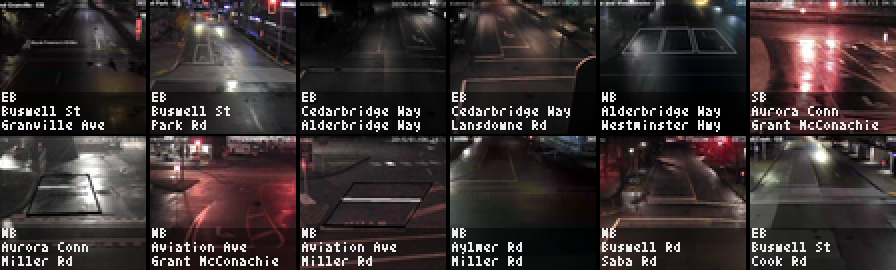
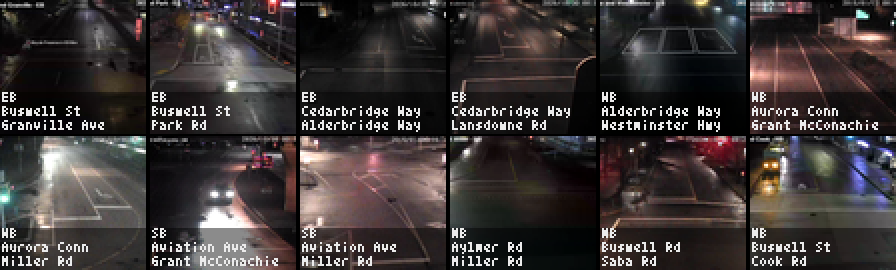
Camera grid review fixes: every view shows before its tile is replaced; more names group
- A place with more views than fit in a tile's life (cells x interval) at view_ms shows each for a share of it,
  so every camera still appears (all 474 up in the live grid are drawn).
- The play ends once every tile on the last screen has looped through its views, not only the last one.
- Places: 'St.and' joins streets; one-street names group on the part before their view ('Cambie Bridge - North'
  and '- South'); Block/blk and Commons/Cmns match.
- Panel: its intersection count follows the same matching; the Next view hint says it speeds up.

Changed region(s): [[0.0, 0.5037, 0.5, 1.0], [0.8125, 0.0, 1.0, 0.8593]]

diff --git a/hub/web/ui/pages/webcams.js b/hub/web/ui/pages/webcams.js
@@ -648,12 +648,15 @@ const GridTab = {
     const playing = computed(() => [...g.cams, ...(g.near?.on && matches.value ? matches.value.cams.filter((c) => !inList(c)) : [])]
       .slice(0, matches.value?.max || 1000));
     const total = computed(() => playing.value.length);
-    // squares: an intersection's views share one when grouped (roughly display/modules/cam_names.py place_key)
+    // squares: an intersection's views share one when grouped (display/modules/cam_names.py place_key, for the count)
+    const SAME = { avenue: "ave", av: "ave", road: "rd", street: "st", boulevard: "blvd", highway: "hwy", drive: "dr", place: "pl",
+      crescent: "cres", parkway: "pkwy", court: "ct", lane: "ln", gate: "gt", block: "blk", connector: "conn", commons: "cmns" };
+    const same = (s) => s.toLowerCase().replace(/\./g, " ").replace(/\b[a-z]+\b/g, (w) => SAME[w] || w).replace(/\s+/g, " ").trim();
     const placeOf = (name) => {
       const n = String(name || "").replace(/\s+/g, " ").trim(), sep = n.includes(" - ") ? " - " : n.includes(" · ") ? " · " : "";
       const main = sep ? n.slice(0, n.lastIndexOf(sep)) : n;
-      const st = main.split(/\s+(?:and|&|at|\/)\s+/i);
-      return st.length >= 2 ? [st[0], st.slice(1).join(" ")].map((s) => s.toLowerCase()).sort().join("|") : n.toLowerCase();
+      const m = main.match(/^(.+?)(?:\s+|(?<=\.))(?:and|&|at|\/)\s+(.+)$/i);
+      return m && m[1].trim() && m[2].trim() ? [same(m[1]), same(m[2])].sort().join("|") : same(main);
     };
     const squares = computed(() => (g.group_views === false ? total.value : new Set(playing.value.map((c) => placeOf(c.name))).size));
     const secs = computed(() => (squares.value * (g.interval_ms || 200)) / 1000 + (g.hold_sec ?? 3));
@@ -729,7 +732,7 @@ const GridTab = {
             <Field label="A new camera every" hint="200 ms is five a second"><Stepper :modelValue="g.interval_ms ?? 200" @update:modelValue="v => g.interval_ms = v" :min="50" :max="5000" :step="50" unit=" ms"/></Field>
             <Field label="One square per intersection" hint="Its views (NB, SB, EB, WB…) take turns in the same square">
               <Toggle :modelValue="g.group_views !== false" @update:modelValue="v => g.group_views = v"/></Field>
-            <Field v-if="g.group_views !== false" label="Next view every" hint="Each square loops through its intersection's views">
+            <Field v-if="g.group_views !== false" label="Next view every" hint="Faster when a square has more views than fit before it's replaced, so every view shows">
               <Stepper :modelValue="g.view_ms ?? 1000" @update:modelValue="v => g.view_ms = v" :min="200" :max="10000" :step="100" unit=" ms"/></Field>
             <Field label="Hold at the end" hint="Once the last camera is in"><Stepper :modelValue="g.hold_sec ?? 3" @update:modelValue="v => g.hold_sec = v" :min="0" :max="30" unit=" s"/></Field>
             <Field label="Rows"><Stepper :modelValue="g.rows ?? 2" @update:modelValue="v => g.rows = v" :min="1" :max="4"/></Field>

diff --git a/tests/test_webcam_list.py b/tests/test_webcam_list.py
@@ -397,17 +397,21 @@ def test_an_intersections_views_share_one_place():
     k = place_key("Alderbridge Way at Lansdowne Road - Eastbound")
     assert k == place_key("Alderbridge Way at Lansdowne Road - SB2") == place_key("Lansdowne Rd & Alderbridge Way - Camera 2")
     assert k != place_key("Alderbridge Way at Westminster Highway - Eastbound")
-    assert place_key("Massey Tunnel · looking south") != place_key("Massey Tunnel · looking north")   # no second street
+    assert place_key("Massey Tunnel · looking south") == place_key("Massey Tunnel · looking north")   # one street
+    assert place_key("Cambie Bridge - North") != place_key("Burrard St Bridge - North")
+    assert place_key("Granville St.and W 41st Av - North") == place_key("Granville St and W 41st Av - South")
+    assert place_key("8100 Block at Cook Road - Eastbound") == place_key("8100 blk at Cook Rd - SB2")
+    assert place_key("Holland Commons & King George Blvd - Camera 1") == place_key("Holland Cmns & King George Blvd - Panorama")
 
 
 def test_a_grouped_tile_loops_through_its_views():
     names = ["A St at B Rd - Northbound", "C St at D Rd - Eastbound", "A St at B Rd - Southbound",
              "E St at F Rd - Westbound", "E St at F Rd - Eastbound"]
-    g = wm.CameraGrid("http://hub:1", {"cams": [{"name": n, "source": {}} for n in names], "cols": 3, "rows": 1,
+    g = wm.CameraGrid("http://hub:1", {"cams": [{"name": n, "source": {}} for n in names], "cols": 5, "rows": 2,
                                         "interval_ms": 200, "view_ms": 1000, "hold_sec": 0, "labels": False})
-    geo = tw, th, xs, ys = g.geometry((0, 0, 300, 100))
+    geo = tw, th, xs, ys = g.geometry((0, 0, 300, 100))           # 10 tiles: each lives 2 s, time for 2 views of 1 s
     tiles = [np.full((th, tw, 3), 10 * (i + 1), np.uint8) for i in range(5)]
-    at = lambda t: (lambda c: (g.draw_tiles(c, tiles, geo, t), [int(c.buf[5, x + 5, 0]) for x in xs])[1])(Canvas(300, 100))
+    at = lambda t: (lambda c: (g.draw_tiles(c, tiles, geo, t), [int(c.buf[5, x + 5, 0]) for x in xs[:3]])[1])(Canvas(300, 100))
     assert at(0.5) == [10, 20, 40]                       # three places, each on its first view
     assert at(1.1) == [30, 20, 40]                       # A's tile has moved to its next view (C has only one)
     assert at(1.3) == [30, 20, 40] and at(1.5) == [30, 20, 50]   # E landed at 0.4 s: its second view from 1.4 s
@@ -416,3 +420,24 @@ def test_a_grouped_tile_loops_through_its_views():
     assert g.draw_tiles(Canvas(300, 100), tiles, geo, 2.5) == "done"
     flat = wm.CameraGrid("http://hub:1", {"cams": g.cams, "group_views": False, "cols": 3, "rows": 1, "hold_sec": 0})
     assert len(flat._places(tiles, flat.names, tw, th)) == 5
+
+
+def test_every_view_shows_before_its_tile_is_taken_over_and_the_last_screen_finishes_its_loops():
+    names = ["A St at B Rd - Northbound", "A St at B Rd - Southbound", "A St at B Rd - Eastbound", "A St at B Rd - Westbound",
+             "C St at D Rd - North", "E St at F Rd - North", "G St at H Rd - North"]
+    g = wm.CameraGrid("http://hub:1", {"cams": [{"name": n, "source": {}} for n in names], "cols": 2, "rows": 1,
+                                        "interval_ms": 200, "view_ms": 1000, "hold_sec": 0, "labels": False})
+    geo = tw, th, xs, ys = g.geometry((0, 0, 200, 100))
+    tiles = [np.full((th, tw, 3), 10 * (i + 1), np.uint8) for i in range(7)]
+    seen = set()
+    for f in range(0, 80):                               # A's tile lives 2 × 200 ms: its 4 views get 100 ms each
+        c = Canvas(200, 100)
+        g.draw_tiles(c, tiles, geo, f / 200)
+        seen.add(int(c.buf[5, xs[0] + 5, 0])) if f / 200 < 0.4 else None
+    assert {10, 20, 30, 40} <= seen
+    late = wm.CameraGrid("http://hub:1", {"cams": [{"name": n, "source": {}} for n in names[:5]], "cols": 4, "rows": 1,
+                                           "interval_ms": 200, "view_ms": 1000, "hold_sec": 0, "labels": False})
+    geo = late.geometry((0, 0, 400, 100))                # A (4 views, 200 ms each in a tile that lives 800 ms), then C
+    t4 = [np.full((geo[1], geo[0], 3), 9, np.uint8)] * 5
+    assert late.draw_tiles(Canvas(400, 100), t4, geo, 0.7) is None      # both in at 0.4 s, A still looping (till 0.8 s)
+    assert late.draw_tiles(Canvas(400, 100), t4, geo, 0.85) == "done"

diff --git a/display/modules/webcam.py b/display/modules/webcam.py
@@ -471,25 +471,30 @@ class CameraGrid:
 
     def draw_tiles(self, c, tiles, geo, elapsed, names=None):
         """The grid ``elapsed`` seconds into the reveal; "done" once every place has appeared, the hold is over and
-        the last tile has shown each of its views. Cameras that are down (no picture from the hub) are skipped, not
-        shown as empty tiles; none up: "skip"."""
+        each tile on the last screen has shown all its views. A tile is taken over after cells × interval, so a place
+        with more views than fit in that at view_ms shows each one for a share of it instead: every view appears.
+        Cameras that are down (no picture from the hub) are skipped, not shown as empty tiles; none up: "skip"."""
         tw, th, xs, ys = geo
         names = self.names if names is None else names
         places = self._places(tiles, names, tw, th)
         if not places:
             return "skip"
         cells = len(xs) * len(ys)
+        per_view = lambda views: min(self.view_sec, cells * self.interval / len(views))
         shown = min(len(places), int(elapsed / self.interval) + 1)
         for k in range(min(cells, shown)):
             n = k + ((shown - 1 - k) // cells) * cells       # the newest place in tile k (k, k + cells, ...)
             views = places[n]
-            i = views[int(max(0.0, elapsed - n * self.interval) / self.view_sec) % len(views)]   # from its first view
+            i = views[int(max(0.0, elapsed - n * self.interval) / per_view(views)) % len(views)]   # from its first view
             tx, ty = xs[k % len(xs)], ys[k // len(xs)]
             c.Blit(tiles[i], tx, ty)
             if self.labels and tw >= 24 and th >= 16 and i < len(names):
                 self._label(c, tx, ty, tw, th, self._labels_for(tw, names)[i])
-        last = (len(places) - 1) * self.interval + len(places[-1]) * self.view_sec if len(places[-1]) > 1 else 0.0
-        if shown >= len(places) and elapsed >= max(len(places) * self.interval + self.hold, last):
+        if shown < len(places):
+            return None
+        loops = max((n * self.interval + len(places[n]) * per_view(places[n])
+                     for n in range(max(0, len(places) - cells), len(places)) if len(places[n]) > 1), default=0.0)
+        if elapsed >= max(len(places) * self.interval + self.hold, loops):
             return "done"
         return None
 

diff --git a/display/modules/cam_names.py b/display/modules/cam_names.py
@@ -14,7 +14,7 @@ import re
 
 PARTS = ("street1", "street2", "dir", "view", "name")
 DEFAULT_LINES = [["street1"], ["street2"]]          # the direction goes in a corner tag by default
-_JOINERS = re.compile(r"\s+(?:and|&|at|/)\s+", re.I)
+_JOINERS = re.compile(r"(?:\s+|(?<=\.))(?:and|&|at|/)\s+", re.I)     # (Vancouver has one "Granville St.and W 41st Av")
 _COMPASS = {"north": "N", "northeast": "NE", "east": "E", "southeast": "SE", "south": "S", "southwest": "SW",
             "west": "W", "northwest": "NW"}
 _DIR = re.compile(r"^(looking\s+)?(north|south|east|west)(east|west)?(bound)?(\s+\w+)?$", re.I)
@@ -58,13 +58,24 @@ def split(name: str) -> dict:
     return out
 
 
+# for matching places only: any case, and the spellings one city mixes ("Block"/"blk", "Holland Commons"/"Cmns")
+_SAME = {**{a.lower(): b.lower() for a, b in _SHORT}, "commons": "cmns"}
+_SAME_RE = re.compile(r"\b(" + "|".join(re.escape(a) for a in _SAME) + r")\b")
+
+
+def _same(street: str) -> str:
+    s = _SAME_RE.sub(lambda m: _SAME[m.group(1)], street.lower().replace(".", " "))
+    return re.sub(r"\s+", " ", s).strip()
+
+
 def place_key(name: str):
-    """The intersection a view belongs to, the same for every view of it ("A St at B Rd - Northbound" and
-    "B Road & A Street - Camera 2"); a name without a second street is its own place."""
+    """The place a view belongs to, the same for every view of it: an intersection ("A St at B Rd - Northbound" and
+    "B Road & A Street - Camera 2"), or for a name with one street, the name before its view ("Cambie Bridge - North",
+    "Massey Tunnel · looking south")."""
     p = split(name)
     if not p["street2"]:
-        return p["name"].lower()
-    return tuple(sorted(short_street(s).lower() for s in (p["street1"], p["street2"])))
+        return _same(p["street1"])
+    return tuple(sorted(_same(s) for s in (p["street1"], p["street2"])))
 
 
 def dir_text(p: dict, style: str = "short") -> str:

diff --git a/CLAUDE.md b/CLAUDE.md
@@ -171,7 +171,8 @@ once (`hold: false`), so the rotation resumes by itself.
   the Webcams page), `per_turn` webcams a turn. An entry with `cam` still plays that one webcam (older rotations).
 - Sizes: `webcam` (side), `_full`, `_tall` (over the ticker, clock strip stays: `Screen.tall_panels`), `_wall`.
 - Camera grid (`webcam_grid*`): stills only, tiles filling the frame (`rows`, `cols` or auto) revealed one per
-  `interval_ms`, an intersection's views sharing one tile that loops through them every `view_ms` (`group_views`, on;
+  `interval_ms`, an intersection's views sharing one tile that loops through them every `view_ms`, sped up so every view shows
+  before the tile is replaced (`group_views`, on;
   `cam_names.place_key`), each labelled (`display/modules/cam_names.py` splits names into streets and direction; `grid.label`:
   lines, dir tag/line/off, at, wording, size); `grid.near` adds every camera within a radius of a point, worked out by
   the hub each time; cameras that are down, black, blank, frozen (2 h) or slower than 10 s are left out. The

diff --git a/README.md b/README.md
@@ -137,7 +137,7 @@ highway cameras, by city or bridge, as a list or on a map. Any of them can be a 
 streets on their own lines and its direction (EB, N…) as a tag in the opposite corner, all configurable, that
 fill one camera at a time (every 200 ms by default, top row first) until every camera in the grid has appeared, then
 the rotation moves on. An intersection's views (NB, SB, EB, WB…) share one tile, which loops through them (every
-second by default; it can be turned off). Cameras can be picked by hand or added by place: every camera within a radius of a point
+second by default, faster when more views than that fit before the tile is replaced; it can be turned off). Cameras can be picked by hand or added by place: every camera within a radius of a point
 (nearby cameras join by themselves). Cameras that are down are skipped; they stay listed and on the map for a week.
 
 ## Gallery
